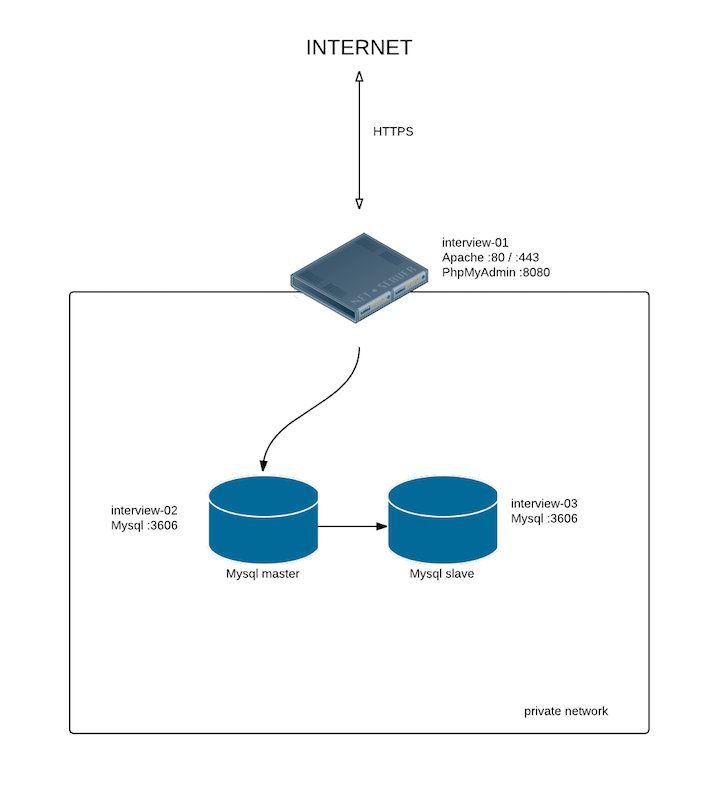
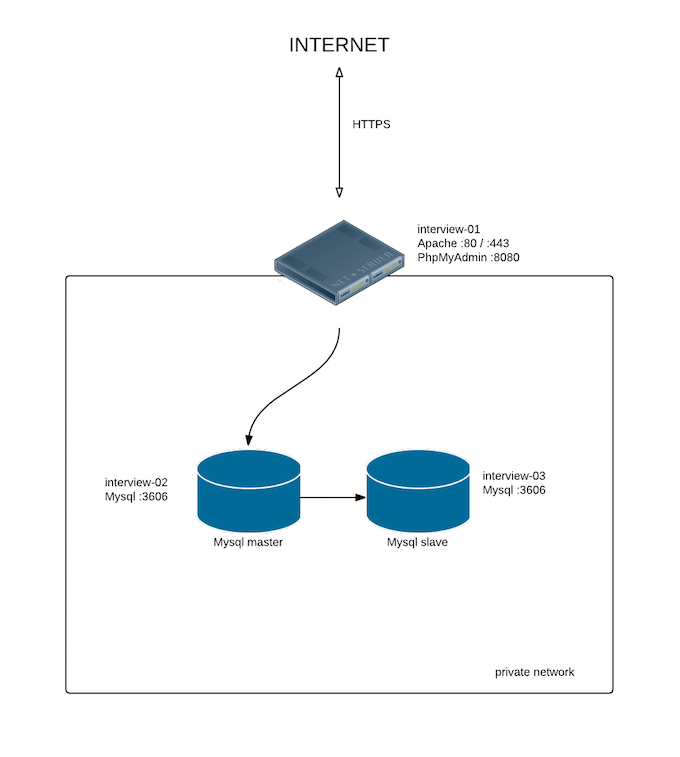
remove bracket and adjust size

diff --git a/README.md b/README.md
@@ -3,7 +3,7 @@ EuroDNS DevOps
 
 The purpose of the test is to set up an production environment providing a web application using apache as frontend and a redundant mysql database (master-slave).
 
-Role of servers (![network schema](./schema.png))
+Role of servers ![network schema](./schema.png)
 
 - interview-01: webserver: apache / phpMyAdmin
 - interview-02: mysql master 
